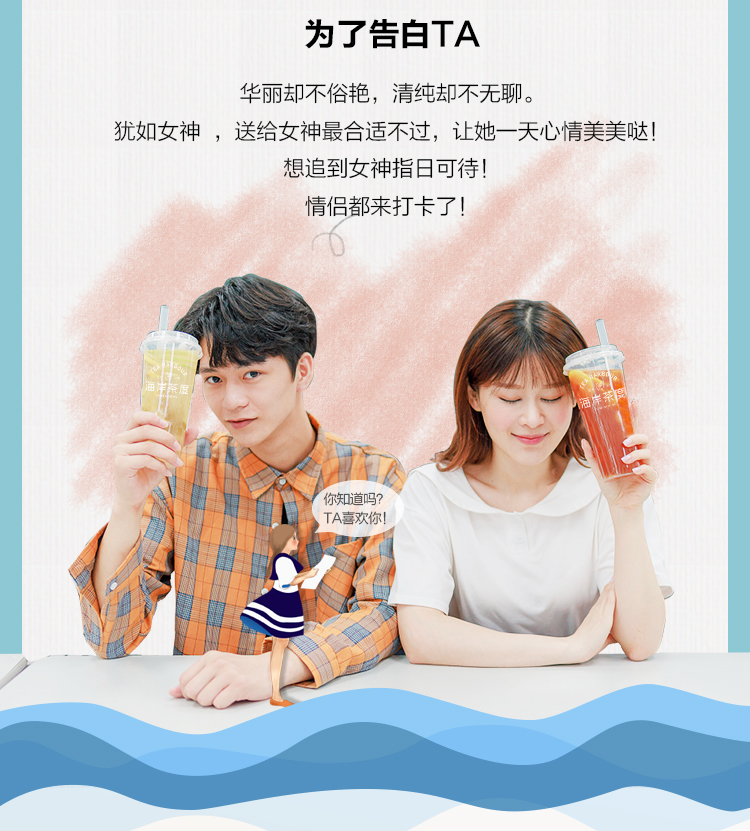
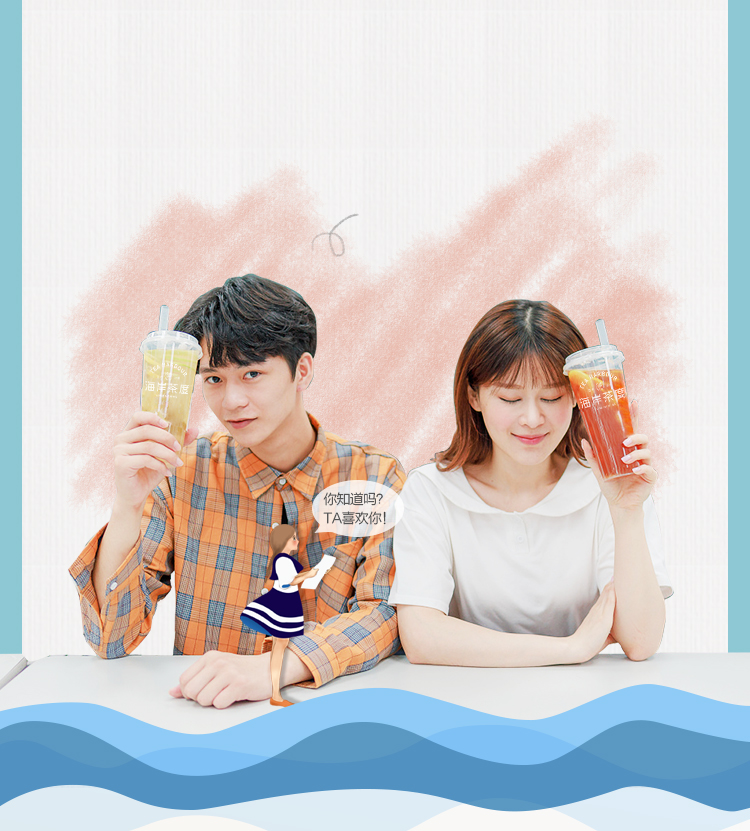
adv布局

Changed region(s): [[0.3067, 0.0903, 0.8893, 0.2708], [0.3987, 0.0, 0.644, 0.0602], [0.1533, 0.1504, 0.276, 0.1805]]

diff --git a/src/components/Adv.vue b/src/components/Adv.vue
@@ -1,20 +1,203 @@
 <template>
-<div class="adv">
-    <div class="davTop"><img src="../../static/img/adv/01.jpg" alt=""></div>
-</div>
+  <div class="adv">
+    <div class="davTop">
+      <img src="/static/img/adv/01.jpg" alt width="100%">
+      <img src="/static/img/adv/0.png" alt class="adv_1" width="100%">
+    </div>
+    <div class="advMild">
+      <img src="/static/img/adv/02.jpg" alt width="100%">
+      <img src="/static/img/adv/t1.png" alt class="adv_t1">
+      <img src="/static/img/adv/tt1.png" alt class="adv_tt1">
+      <img src="/static/img/adv/cha1.gif" alt class="adv_cha1">
+      <img src="/static/img/adv/cha2.gif" alt class="adv_cha2">
+    </div>
+    <div class="advBott">
+      <img src="../../static/img/adv/03.jpg" alt>
+    </div>
+    <div class="advCod">
+      <img src="../../static/img/adv/04.jpg" alt>
+      <img src="/static/img/adv/t2.png" alt class="adv_t2">
+      <img src="/static/img/adv/tt2.png" alt class="adv_tt2">
+      <img src="/static/img/adv/girl.png" alt class="adv_girl">
+    </div>
+    <div class="advDoen">
+      <img src="/static/img/adv/05.webp" alt>
+      <img src="/static/img/adv/t3.png" alt class="adv_t3">
+      <img src="/static/img/adv/tt3.png" alt class="adv_tt3">
+     <img src="/static/img/adv/1drink.png" alt class="adv_1drink">
+      <img src="/static/img/adv/2Water-waves.png" alt class="adv_2waves">
+      <img src="/static/img/adv/copy1.png" alt="" class="adv_copy1">
+      <img src="/static/img/adv/copy2.png" alt="" class="adv_copy2">
+    </div>
+    <div class="advFile">
+      <img src="/static/img/adv/07.jpg" alt>
+      <img src="/static/img/adv/copy3.png" alt="" class="adv_copy3">      
+    </div>
+    <div class="advGood">
+      <img src="/static/img/adv/08.jpg" alt>
+      <img src="/static/img/adv/t4.png" alt class="adv_t4">      
+      <img src="/static/img/adv/tt4.png" alt class="adv_tt4">      
+    </div>
+    <div class="advHight">
+      <img src="/static/img/adv/09.jpg" alt>
+      <img src="/static/img/adv/label.png" alt="" class="adv_word1">
+      <img src="/static/img/adv/next_button.png" alt="" class="adv_next"> 
+    </div>
+  </div>
 </template>
 
 <script>
 export default {
-  name: 'Adv'
-}
+  name: "Adv"
+};
 </script>
 
 <style>
-.adv {
-    width: 100%;
+.xian{
+  height: 0.01rem;
+  width: 100%;
+  background: #000;
 }
-.davTop{
-    width: 100%;
+.adv {
+  width: 100%;
+  overflow-x: hidden;
+}
+.davTop {
+  width: 100%;
+  height: 4.62rem;
+  position: relative;
+}
+.advMild {
+  position: relative;
+}
+.adv_1 {
+  height: 4rem;
+  width: 3rem;
+  position: absolute;
+  left: 0rem;
+  bottom: 0.2rem;
+}
+.adv_t1 {
+  position: absolute;
+  top: 0.2rem;
+}
+.adv_tt1,
+.adv_tt2 {
+  position: absolute;
+  top: 0.2rem;
+  width: 3rem;
+  left: 0.375rem;
+}
+.adv_cha1 {
+  position: absolute;
+  width: 1.7rem;
+  height: 0.95rem;
+  left: 0.15rem;
+  bottom: -2rem;
+}
+.adv_cha2 {
+  position: absolute;
+  width: 2rem;
+  height: 1.135rem;
+  right: 0.2rem;
+  bottom: -2.35rem;
+}
+.advCod {
+  position: relative;
+}
+.adv_t2 {
+  position: absolute;
+  top: 0.2rem;
+}
+.adv_girl {
+  position: absolute;
+  width: 0.715rem;
+  height: 1.1rem;
+  left: 0.9rem;
+  bottom: 1rem;
+}
+.advDoen {
+  position: relative;
+}
+.adv_t3,.adv_t4 {
+  position: absolute;
+  width: 0.6rem;
+  height: 0.6rem;
+  top: 0;
+  left: 50%;
+  margin-left: -0.3rem;
+}
+.adv_tt3 ,.adv_tt4{
+  position: absolute;
+  width: 3rem;
+  height: 0.43rem;
+  top: 0.95rem;
+  left: 50%;
+  margin-left: -1.5rem;
+}
+.adv_copy1{
+  position: absolute;
+  width: 1.125rem;
+	height: 0.955rem;
+  top: 2rem;
+  right: 0.2rem;
+}
+
+.adv_copy2{
+  position: absolute;
+  	width: 1.125rem;
+	height: 0.955rem;
+  top: 4.2rem;
+    left: 0.2rem;
+}
+.advElie {
+  position: relative;
+}
+.adv_1drink {
+  position: absolute;
+  bottom: 0.15rem;
+  left: 0.25rem;
+}
+.adv_2waves {
+  width: 3.45rem;
+  height: 1.8rem;
+  position: absolute;
+  bottom: 0.18rem;
+  right: 0;
+}
+.advFile{
+  position: relative;
+}
+.adv_copy3{
+  position:absolute;
+  top: 0;
+  left: 50%;
+  width: 2.7rem;
+	height: 0.955rem;
+  margin-left: -1.35rem;
+}
+.advGood{
+    position: relative;
+}
+.advHight{
+  position: relative;
+}
+.adv_word1{
+  position: absolute;
+  width: 2.15rem;
+  height: 1.35rem;
+  top: 0;
+left: 50%;
+margin-left:-1.075rem;
+top: 50%;
+margin-top: -0.675rem;
+}
+.adv_next{
+  position: absolute;
+ 	width: 0.955rem;
+	height: 0.35rem;
+  left: 50%;
+  margin-left: -0.48rem;
+  bottom: 0.5rem;
 }
 </style>

diff --git a/src/router/index.js b/src/router/index.js
@@ -14,11 +14,6 @@ Vue.use(Router)
 export default new Router({
   routes: [
     {
-      path: '/',
-      name: 'HelloWorld',
-      component: HelloWorld
-    },
-    {
       path:'/open',
       name:'Open',
       component:Open
@@ -33,7 +28,7 @@ export default new Router({
       name:'/Brand',
       component:Brand
     },{
-      path:'/adv',
+      path:'/',
       name:'/Adv',
       component:Adv
     },

diff --git a/static/css/reset.css b/static/css/reset.css
@@ -24,7 +24,6 @@ table {
 img{
   display: block;
   width: 100%;
-  height: 100%;
 }
 fieldset, img {	border:0; }
 address, caption, cite, code, dfn, em, strong, th, var {
